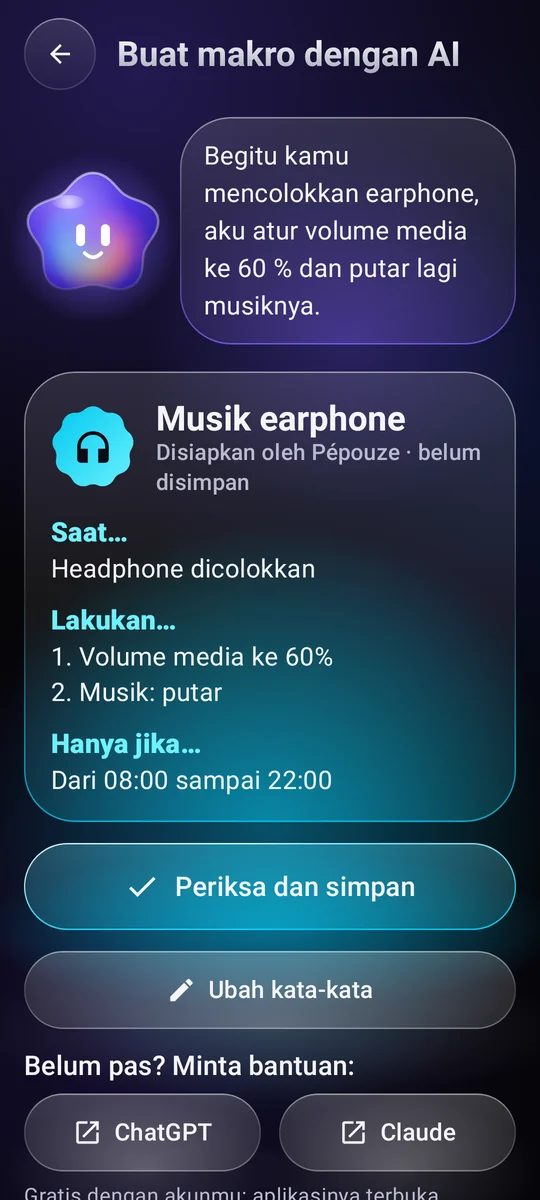
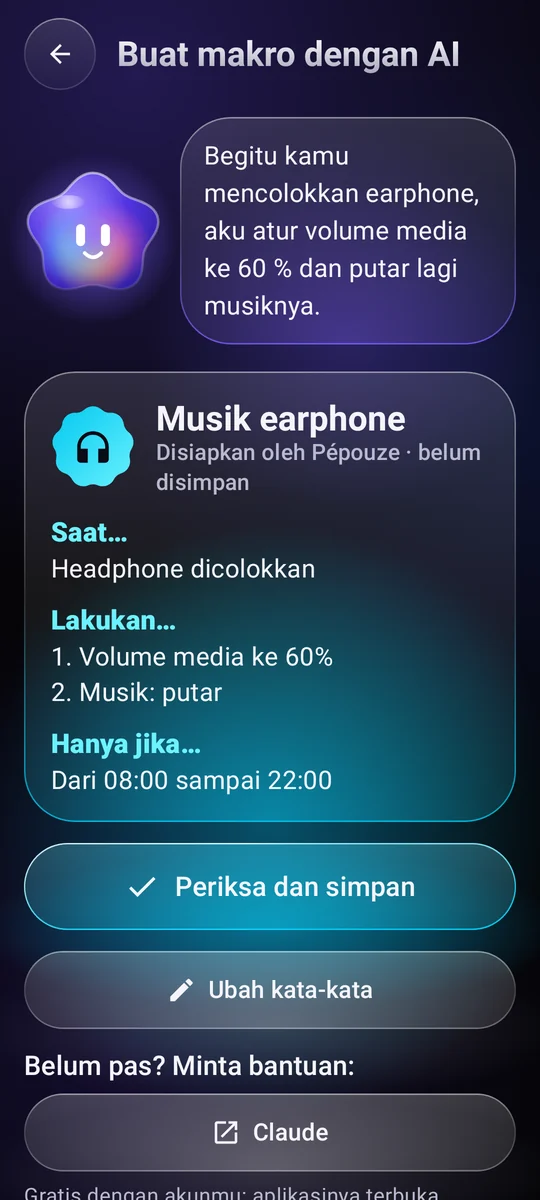
Site: Claude only for complex requests (ChatGPT set aside for now)
Claude-Session: https://claude.ai/code/session_01VpGqBhpgU2fPNPJNArqg4Q

Changed region(s): [[0.1185, 0.8942, 0.6815, 1.0], [0.7111, 0.925, 0.8593, 0.9558]]

diff --git a/ja/index.html b/ja/index.html
@@ -156,7 +156,7 @@
       <ul class="ticks">
         <li><svg viewBox="0 0 24 24" fill="none" stroke="currentColor" stroke-width="2" stroke-linecap="round" stroke-linejoin="round" aria-hidden="true"><path d="m5 12.5 4.5 4.5L19 7.5"/></svg><span><b>あなたの許可なしには何も動きません：</b>保存する前に、どのマクロも必ず確認できます。</span></li>
         <li><svg viewBox="0 0 24 24" fill="none" stroke="currentColor" stroke-width="2" stroke-linecap="round" stroke-linejoin="round" aria-hidden="true"><path d="m5 12.5 4.5 4.5L19 7.5"/></svg><span><b>Pépouze はスマホの中で動きます：</b>あなたの文章はどこにも送信されません。</span></li>
-        <li><svg viewBox="0 0 24 24" fill="none" stroke="currentColor" stroke-width="2" stroke-linecap="round" stroke-linejoin="round" aria-hidden="true"><path d="m5 12.5 4.5 4.5L19 7.5"/></svg><span><b>もっと複雑なお願いには、</b>Pépouze から ChatGPT や Claude に引き継げます。ご自身のアカウントで使え、キーは不要です。</span></li>
+        <li><svg viewBox="0 0 24 24" fill="none" stroke="currentColor" stroke-width="2" stroke-linecap="round" stroke-linejoin="round" aria-hidden="true"><path d="m5 12.5 4.5 4.5L19 7.5"/></svg><span><b>もっと複雑なお願いには、</b>Pépouze から Claude に引き継げます。ご自身のアカウントで使え、キーは不要です。</span></li>
       </ul>
     </div>
   </div>

diff --git a/ko/index.html b/ko/index.html
@@ -156,7 +156,7 @@
       <ul class="ticks">
         <li><svg viewBox="0 0 24 24" fill="none" stroke="currentColor" stroke-width="2" stroke-linecap="round" stroke-linejoin="round" aria-hidden="true"><path d="m5 12.5 4.5 4.5L19 7.5"/></svg><span><b>동의 없이는 아무것도 켜지지 않아요:</b> 저장하기 전에 모든 매크로를 직접 확인합니다.</span></li>
         <li><svg viewBox="0 0 24 24" fill="none" stroke="currentColor" stroke-width="2" stroke-linecap="round" stroke-linejoin="round" aria-hidden="true"><path d="m5 12.5 4.5 4.5L19 7.5"/></svg><span><b>Pépouze는 휴대폰 안에서 작동해요:</b> 입력한 문장은 어디에도 전송되지 않습니다.</span></li>
-        <li><svg viewBox="0 0 24 24" fill="none" stroke="currentColor" stroke-width="2" stroke-linecap="round" stroke-linejoin="round" aria-hidden="true"><path d="m5 12.5 4.5 4.5L19 7.5"/></svg><span><b>더 복잡한 요청에는</b> Pépouze가 ChatGPT나 Claude에 넘길 수 있어요. 내 계정으로, 키 없이요.</span></li>
+        <li><svg viewBox="0 0 24 24" fill="none" stroke="currentColor" stroke-width="2" stroke-linecap="round" stroke-linejoin="round" aria-hidden="true"><path d="m5 12.5 4.5 4.5L19 7.5"/></svg><span><b>더 복잡한 요청에는</b> Pépouze가 Claude에 넘길 수 있어요. 내 계정으로, 키 없이요.</span></li>
       </ul>
     </div>
   </div>

diff --git a/tr/index.html b/tr/index.html
@@ -156,7 +156,7 @@
       <ul class="ticks">
         <li><svg viewBox="0 0 24 24" fill="none" stroke="currentColor" stroke-width="2" stroke-linecap="round" stroke-linejoin="round" aria-hidden="true"><path d="m5 12.5 4.5 4.5L19 7.5"/></svg><span><b>Onayınız olmadan hiçbir şey etkinleşmez:</b> her makroyu kaydetmeden önce gözden geçirirsiniz.</span></li>
         <li><svg viewBox="0 0 24 24" fill="none" stroke="currentColor" stroke-width="2" stroke-linecap="round" stroke-linejoin="round" aria-hidden="true"><path d="m5 12.5 4.5 4.5L19 7.5"/></svg><span><b>Pépouze telefonun içinde çalışır:</b> cümleniz hiçbir yere gönderilmez.</span></li>
-        <li><svg viewBox="0 0 24 24" fill="none" stroke="currentColor" stroke-width="2" stroke-linecap="round" stroke-linejoin="round" aria-hidden="true"><path d="m5 12.5 4.5 4.5L19 7.5"/></svg><span><b>Daha karmaşık istekler için</b> Pépouze, isteği kendi hesabınızla ChatGPT'ye veya Claude'a aktarabilir; anahtar gerekmez.</span></li>
+        <li><svg viewBox="0 0 24 24" fill="none" stroke="currentColor" stroke-width="2" stroke-linecap="round" stroke-linejoin="round" aria-hidden="true"><path d="m5 12.5 4.5 4.5L19 7.5"/></svg><span><b>Daha karmaşık istekler için</b> Pépouze, isteği kendi hesabınızla Claude'a aktarabilir; anahtar gerekmez.</span></li>
       </ul>
     </div>
   </div>

diff --git a/index.html b/index.html
@@ -156,7 +156,7 @@
       <ul class="ticks">
         <li><svg viewBox="0 0 24 24" fill="none" stroke="currentColor" stroke-width="2" stroke-linecap="round" stroke-linejoin="round" aria-hidden="true"><path d="m5 12.5 4.5 4.5L19 7.5"/></svg><span><b>Rien ne s'active sans votre accord :</b> vous relisez chaque macro avant de l'enregistrer.</span></li>
         <li><svg viewBox="0 0 24 24" fill="none" stroke="currentColor" stroke-width="2" stroke-linecap="round" stroke-linejoin="round" aria-hidden="true"><path d="m5 12.5 4.5 4.5L19 7.5"/></svg><span><b>Pépouze fonctionne sur le téléphone :</b> votre phrase n'est envoyée nulle part.</span></li>
-        <li><svg viewBox="0 0 24 24" fill="none" stroke="currentColor" stroke-width="2" stroke-linecap="round" stroke-linejoin="round" aria-hidden="true"><path d="m5 12.5 4.5 4.5L19 7.5"/></svg><span><b>Pour les demandes plus complexes,</b> Pépouze peut passer la main à ChatGPT ou Claude, avec votre propre compte, sans clé.</span></li>
+        <li><svg viewBox="0 0 24 24" fill="none" stroke="currentColor" stroke-width="2" stroke-linecap="round" stroke-linejoin="round" aria-hidden="true"><path d="m5 12.5 4.5 4.5L19 7.5"/></svg><span><b>Pour les demandes plus complexes,</b> Pépouze peut passer la main à Claude, avec votre propre compte, sans clé.</span></li>
       </ul>
     </div>
   </div>

diff --git a/id/index.html b/id/index.html
@@ -156,7 +156,7 @@
       <ul class="ticks">
         <li><svg viewBox="0 0 24 24" fill="none" stroke="currentColor" stroke-width="2" stroke-linecap="round" stroke-linejoin="round" aria-hidden="true"><path d="m5 12.5 4.5 4.5L19 7.5"/></svg><span><b>Tak ada yang aktif tanpa persetujuan Anda:</b> Anda memeriksa setiap makro sebelum menyimpannya.</span></li>
         <li><svg viewBox="0 0 24 24" fill="none" stroke="currentColor" stroke-width="2" stroke-linecap="round" stroke-linejoin="round" aria-hidden="true"><path d="m5 12.5 4.5 4.5L19 7.5"/></svg><span><b>Pépouze bekerja di ponsel:</b> kalimat Anda tidak dikirim ke mana pun.</span></li>
-        <li><svg viewBox="0 0 24 24" fill="none" stroke="currentColor" stroke-width="2" stroke-linecap="round" stroke-linejoin="round" aria-hidden="true"><path d="m5 12.5 4.5 4.5L19 7.5"/></svg><span><b>Untuk permintaan yang lebih rumit,</b> Pépouze bisa meneruskannya ke ChatGPT atau Claude, dengan akun Anda sendiri, tanpa kunci.</span></li>
+        <li><svg viewBox="0 0 24 24" fill="none" stroke="currentColor" stroke-width="2" stroke-linecap="round" stroke-linejoin="round" aria-hidden="true"><path d="m5 12.5 4.5 4.5L19 7.5"/></svg><span><b>Untuk permintaan yang lebih rumit,</b> Pépouze bisa meneruskannya ke Claude, dengan akun Anda sendiri, tanpa kunci.</span></li>
       </ul>
     </div>
   </div>

diff --git a/pl/index.html b/pl/index.html
@@ -156,7 +156,7 @@
       <ul class="ticks">
         <li><svg viewBox="0 0 24 24" fill="none" stroke="currentColor" stroke-width="2" stroke-linecap="round" stroke-linejoin="round" aria-hidden="true"><path d="m5 12.5 4.5 4.5L19 7.5"/></svg><span><b>Nic nie włącza się bez twojej zgody:</b> przeglądasz każde makro przed zapisaniem.</span></li>
         <li><svg viewBox="0 0 24 24" fill="none" stroke="currentColor" stroke-width="2" stroke-linecap="round" stroke-linejoin="round" aria-hidden="true"><path d="m5 12.5 4.5 4.5L19 7.5"/></svg><span><b>Pépouze działa w telefonie:</b> twoje zdanie nigdzie nie jest wysyłane.</span></li>
-        <li><svg viewBox="0 0 24 24" fill="none" stroke="currentColor" stroke-width="2" stroke-linecap="round" stroke-linejoin="round" aria-hidden="true"><path d="m5 12.5 4.5 4.5L19 7.5"/></svg><span><b>Przy bardziej złożonych prośbach</b> Pépouze może przekazać je do ChatGPT lub Claude, z Twoim własnym kontem, bez klucza.</span></li>
+        <li><svg viewBox="0 0 24 24" fill="none" stroke="currentColor" stroke-width="2" stroke-linecap="round" stroke-linejoin="round" aria-hidden="true"><path d="m5 12.5 4.5 4.5L19 7.5"/></svg><span><b>Przy bardziej złożonych prośbach</b> Pépouze może przekazać je do Claude, z Twoim własnym kontem, bez klucza.</span></li>
       </ul>
     </div>
   </div>

diff --git a/zh/index.html b/zh/index.html
@@ -156,7 +156,7 @@
       <ul class="ticks">
         <li><svg viewBox="0 0 24 24" fill="none" stroke="currentColor" stroke-width="2" stroke-linecap="round" stroke-linejoin="round" aria-hidden="true"><path d="m5 12.5 4.5 4.5L19 7.5"/></svg><span><b>未经你同意，什么都不会启用：</b>保存前，你会检查每一个宏。</span></li>
         <li><svg viewBox="0 0 24 24" fill="none" stroke="currentColor" stroke-width="2" stroke-linecap="round" stroke-linejoin="round" aria-hidden="true"><path d="m5 12.5 4.5 4.5L19 7.5"/></svg><span><b>Pépouze 在手机本地运行：</b>你说的话不会被发送到任何地方。</span></li>
-        <li><svg viewBox="0 0 24 24" fill="none" stroke="currentColor" stroke-width="2" stroke-linecap="round" stroke-linejoin="round" aria-hidden="true"><path d="m5 12.5 4.5 4.5L19 7.5"/></svg><span><b>对于更复杂的需求，</b>Pépouze 可以转交给 ChatGPT 或 Claude，用你自己的账号即可，无需密钥。</span></li>
+        <li><svg viewBox="0 0 24 24" fill="none" stroke="currentColor" stroke-width="2" stroke-linecap="round" stroke-linejoin="round" aria-hidden="true"><path d="m5 12.5 4.5 4.5L19 7.5"/></svg><span><b>对于更复杂的需求，</b>Pépouze 可以转交给 Claude，用你自己的账号即可，无需密钥。</span></li>
       </ul>
     </div>
   </div>

diff --git a/pt/index.html b/pt/index.html
@@ -156,7 +156,7 @@
       <ul class="ticks">
         <li><svg viewBox="0 0 24 24" fill="none" stroke="currentColor" stroke-width="2" stroke-linecap="round" stroke-linejoin="round" aria-hidden="true"><path d="m5 12.5 4.5 4.5L19 7.5"/></svg><span><b>Nada é ativado sem a sua permissão:</b> você revisa cada macro antes de salvar.</span></li>
         <li><svg viewBox="0 0 24 24" fill="none" stroke="currentColor" stroke-width="2" stroke-linecap="round" stroke-linejoin="round" aria-hidden="true"><path d="m5 12.5 4.5 4.5L19 7.5"/></svg><span><b>A Pépouze funciona no próprio celular:</b> sua frase não é enviada para lugar nenhum.</span></li>
-        <li><svg viewBox="0 0 24 24" fill="none" stroke="currentColor" stroke-width="2" stroke-linecap="round" stroke-linejoin="round" aria-hidden="true"><path d="m5 12.5 4.5 4.5L19 7.5"/></svg><span><b>Para pedidos mais complexos,</b> a Pépouze pode passar para o ChatGPT ou o Claude, com a sua própria conta, sem chave.</span></li>
+        <li><svg viewBox="0 0 24 24" fill="none" stroke="currentColor" stroke-width="2" stroke-linecap="round" stroke-linejoin="round" aria-hidden="true"><path d="m5 12.5 4.5 4.5L19 7.5"/></svg><span><b>Para pedidos mais complexos,</b> a Pépouze pode passar para o Claude, com a sua própria conta, sem chave.</span></li>
       </ul>
     </div>
   </div>

diff --git a/it/index.html b/it/index.html
@@ -156,7 +156,7 @@
       <ul class="ticks">
         <li><svg viewBox="0 0 24 24" fill="none" stroke="currentColor" stroke-width="2" stroke-linecap="round" stroke-linejoin="round" aria-hidden="true"><path d="m5 12.5 4.5 4.5L19 7.5"/></svg><span><b>Niente si attiva senza il tuo consenso:</b> rileggi ogni macro prima di salvarla.</span></li>
         <li><svg viewBox="0 0 24 24" fill="none" stroke="currentColor" stroke-width="2" stroke-linecap="round" stroke-linejoin="round" aria-hidden="true"><path d="m5 12.5 4.5 4.5L19 7.5"/></svg><span><b>Pépouze funziona sul telefono:</b> la tua frase non viene inviata da nessuna parte.</span></li>
-        <li><svg viewBox="0 0 24 24" fill="none" stroke="currentColor" stroke-width="2" stroke-linecap="round" stroke-linejoin="round" aria-hidden="true"><path d="m5 12.5 4.5 4.5L19 7.5"/></svg><span><b>Per le richieste più complesse,</b> Pépouze può passare la mano a ChatGPT o Claude, con il tuo account, senza chiave.</span></li>
+        <li><svg viewBox="0 0 24 24" fill="none" stroke="currentColor" stroke-width="2" stroke-linecap="round" stroke-linejoin="round" aria-hidden="true"><path d="m5 12.5 4.5 4.5L19 7.5"/></svg><span><b>Per le richieste più complesse,</b> Pépouze può passare la mano a Claude, con il tuo account, senza chiave.</span></li>
       </ul>
     </div>
   </div>

diff --git a/nl/index.html b/nl/index.html
@@ -156,7 +156,7 @@
       <ul class="ticks">
         <li><svg viewBox="0 0 24 24" fill="none" stroke="currentColor" stroke-width="2" stroke-linecap="round" stroke-linejoin="round" aria-hidden="true"><path d="m5 12.5 4.5 4.5L19 7.5"/></svg><span><b>Niets gaat aan zonder jouw akkoord:</b> je leest elke macro na voordat je hem opslaat.</span></li>
         <li><svg viewBox="0 0 24 24" fill="none" stroke="currentColor" stroke-width="2" stroke-linecap="round" stroke-linejoin="round" aria-hidden="true"><path d="m5 12.5 4.5 4.5L19 7.5"/></svg><span><b>Pépouze werkt op je telefoon zelf:</b> je zin wordt nergens naartoe gestuurd.</span></li>
-        <li><svg viewBox="0 0 24 24" fill="none" stroke="currentColor" stroke-width="2" stroke-linecap="round" stroke-linejoin="round" aria-hidden="true"><path d="m5 12.5 4.5 4.5L19 7.5"/></svg><span><b>Voor ingewikkeldere verzoeken</b> kan Pépouze het doorgeven aan ChatGPT of Claude, met je eigen account, zonder sleutel.</span></li>
+        <li><svg viewBox="0 0 24 24" fill="none" stroke="currentColor" stroke-width="2" stroke-linecap="round" stroke-linejoin="round" aria-hidden="true"><path d="m5 12.5 4.5 4.5L19 7.5"/></svg><span><b>Voor ingewikkeldere verzoeken</b> kan Pépouze het doorgeven aan Claude, met je eigen account, zonder sleutel.</span></li>
       </ul>
     </div>
   </div>

diff --git a/de/index.html b/de/index.html
@@ -156,7 +156,7 @@
       <ul class="ticks">
         <li><svg viewBox="0 0 24 24" fill="none" stroke="currentColor" stroke-width="2" stroke-linecap="round" stroke-linejoin="round" aria-hidden="true"><path d="m5 12.5 4.5 4.5L19 7.5"/></svg><span><b>Nichts wird ohne dein Okay aktiv:</b> Du prüfst jedes Makro, bevor du es speicherst.</span></li>
         <li><svg viewBox="0 0 24 24" fill="none" stroke="currentColor" stroke-width="2" stroke-linecap="round" stroke-linejoin="round" aria-hidden="true"><path d="m5 12.5 4.5 4.5L19 7.5"/></svg><span><b>Pépouze läuft auf dem Handy:</b> Dein Satz wird nirgendwohin geschickt.</span></li>
-        <li><svg viewBox="0 0 24 24" fill="none" stroke="currentColor" stroke-width="2" stroke-linecap="round" stroke-linejoin="round" aria-hidden="true"><path d="m5 12.5 4.5 4.5L19 7.5"/></svg><span><b>Für komplexere Wünsche</b> kann Pépouze an ChatGPT oder Claude übergeben, mit deinem eigenen Konto, ohne Schlüssel.</span></li>
+        <li><svg viewBox="0 0 24 24" fill="none" stroke="currentColor" stroke-width="2" stroke-linecap="round" stroke-linejoin="round" aria-hidden="true"><path d="m5 12.5 4.5 4.5L19 7.5"/></svg><span><b>Für komplexere Wünsche</b> kann Pépouze an Claude übergeben, mit deinem eigenen Konto, ohne Schlüssel.</span></li>
       </ul>
     </div>
   </div>

diff --git a/es/index.html b/es/index.html
@@ -156,7 +156,7 @@
       <ul class="ticks">
         <li><svg viewBox="0 0 24 24" fill="none" stroke="currentColor" stroke-width="2" stroke-linecap="round" stroke-linejoin="round" aria-hidden="true"><path d="m5 12.5 4.5 4.5L19 7.5"/></svg><span><b>Nada se activa sin tu permiso:</b> revisas cada macro antes de guardarla.</span></li>
         <li><svg viewBox="0 0 24 24" fill="none" stroke="currentColor" stroke-width="2" stroke-linecap="round" stroke-linejoin="round" aria-hidden="true"><path d="m5 12.5 4.5 4.5L19 7.5"/></svg><span><b>Pépouze funciona en el teléfono:</b> tu frase no se envía a ninguna parte.</span></li>
-        <li><svg viewBox="0 0 24 24" fill="none" stroke="currentColor" stroke-width="2" stroke-linecap="round" stroke-linejoin="round" aria-hidden="true"><path d="m5 12.5 4.5 4.5L19 7.5"/></svg><span><b>Para pedidos más complejos,</b> Pépouze puede pasarle el relevo a ChatGPT o Claude, con tu propia cuenta, sin clave.</span></li>
+        <li><svg viewBox="0 0 24 24" fill="none" stroke="currentColor" stroke-width="2" stroke-linecap="round" stroke-linejoin="round" aria-hidden="true"><path d="m5 12.5 4.5 4.5L19 7.5"/></svg><span><b>Para pedidos más complejos,</b> Pépouze puede pasarle el relevo a Claude, con tu propia cuenta, sin clave.</span></li>
       </ul>
     </div>
   </div>
